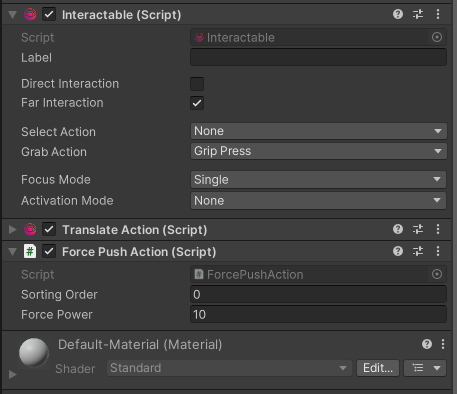
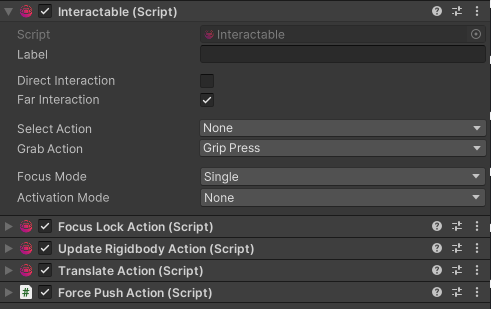
Update image

Changed region(s): [[0.0, 0.0, 1.0, 1.0], [0.4289, 0.233, 0.4595, 0.2621]]

diff --git a/docs/02-Interactions/03-interaction-actions/custom-actions.md b/docs/02-Interactions/03-interaction-actions/custom-actions.md
@@ -72,7 +72,7 @@ public class ForcePushAction : BaseInteractionAction
 ```
 
 Alright, we are almost there. All that is left to do now is make the component push away the interactable when we
-stop interacting with it. We will be using our custom action together with the toolkit's default `TranslateAction`
+stop interacting with it. We will be using our custom action together with some of the toolkit's default actions 
 to grab the object and move it around and then when we "drop it", our force push should kick in and do its job.
 
 :::tip
@@ -136,15 +136,16 @@ in the scene and thus have a position. We use that position to determine the dir
 
 ## Using your action
 
-Create a primitive `GameObject`, such as a cube or sphere in your scene. Then attach the `Interactable` component to it and also the `TranslateAction` and the
-just created `ForcePushAction`. Configure the input events on the `Interactable` and make it only react to far interaction for simplicity, since our custom action
-is not designed to work with direction interaction. Your GameObject configuration should look similar to this:
+Create a primitive `GameObject`, such as a cube or sphere in your scene. Then attach the `Interactable` component to it and also the `FocusLockAction`, `UpdateRigidbodyAction`, `TranslateAction` and the just created `ForcePushAction`. Configure the input events on the `Interactable` and make it only react to far interaction for simplicity, since our custom action is not designed to work with direction interaction. Your GameObject configuration should look similar to this:
 
 ![Configured Interactable](img/custom-action-on-gameobject.png)
 
 :::tip
 
-Once again, notice how we make use of the existing `TranslateAction` to perform the "telekinesis" aspect of our power.
+Once again, notice how we make use of the existing actions to perform the "telekinesis" aspect of our power.
+The `FocusLockAction` makes sure that the interactor focus is kept on the interactable while we are interacting with it. After that the `UpdateRigidbodyAction`
+makes sure the Rigidbody is configured properly to discard gravity while we are "force holding" the object. `TranslateAction` performs the actual telekinesis and
+last but not least our custom action does the force push.
 
 :::
 
